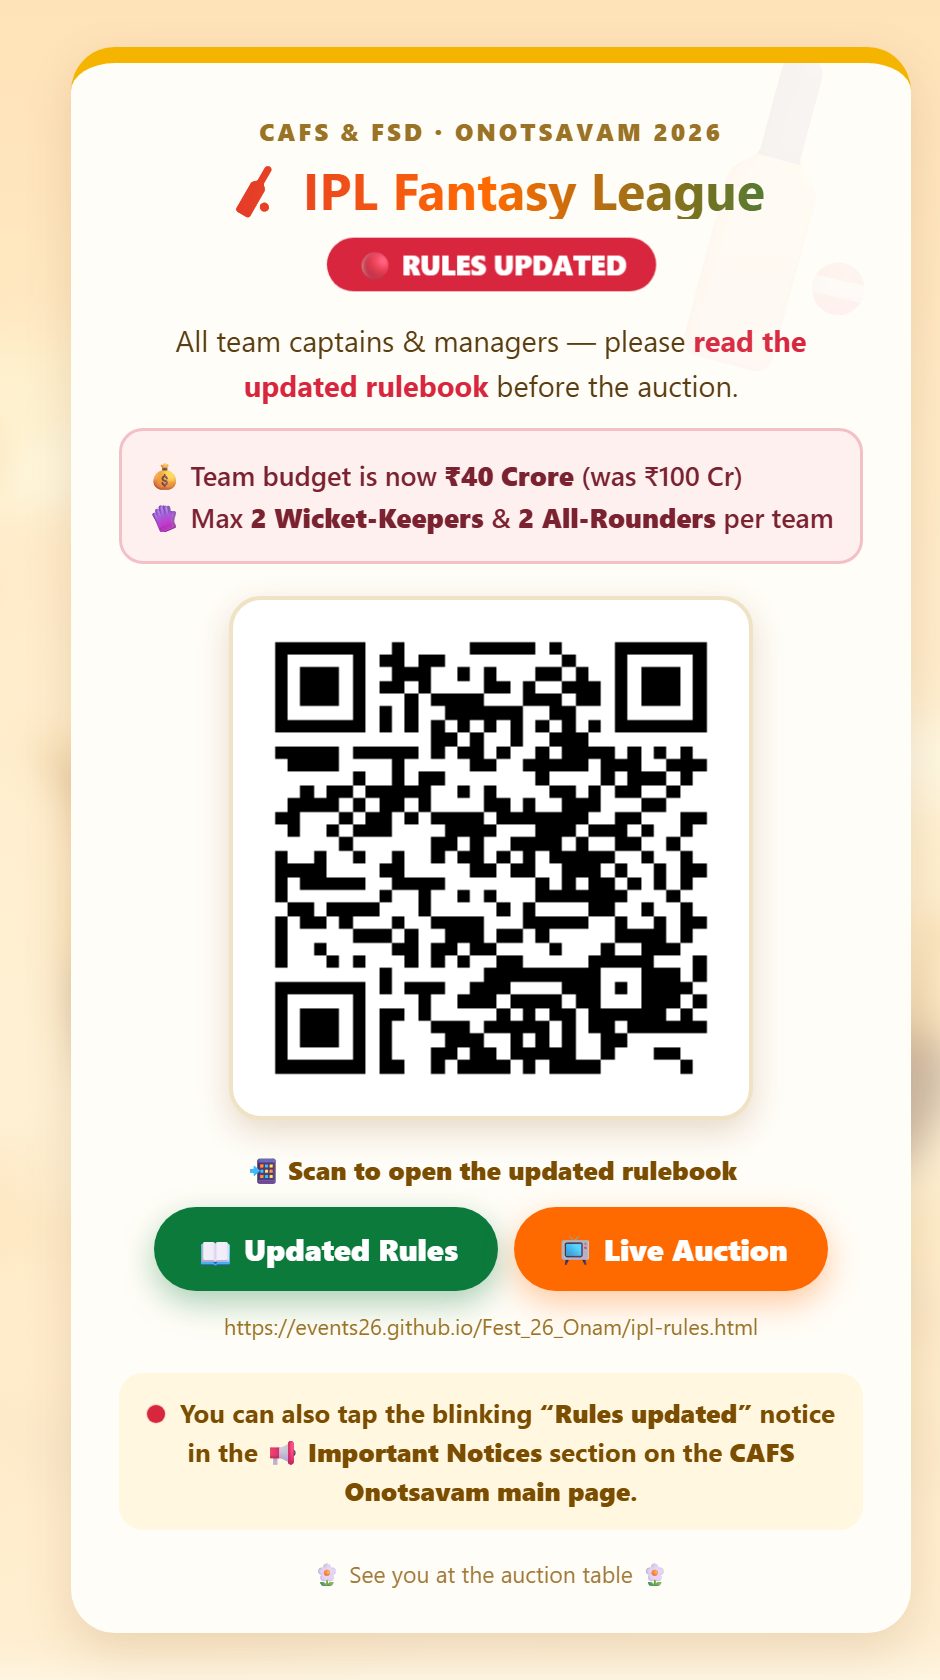
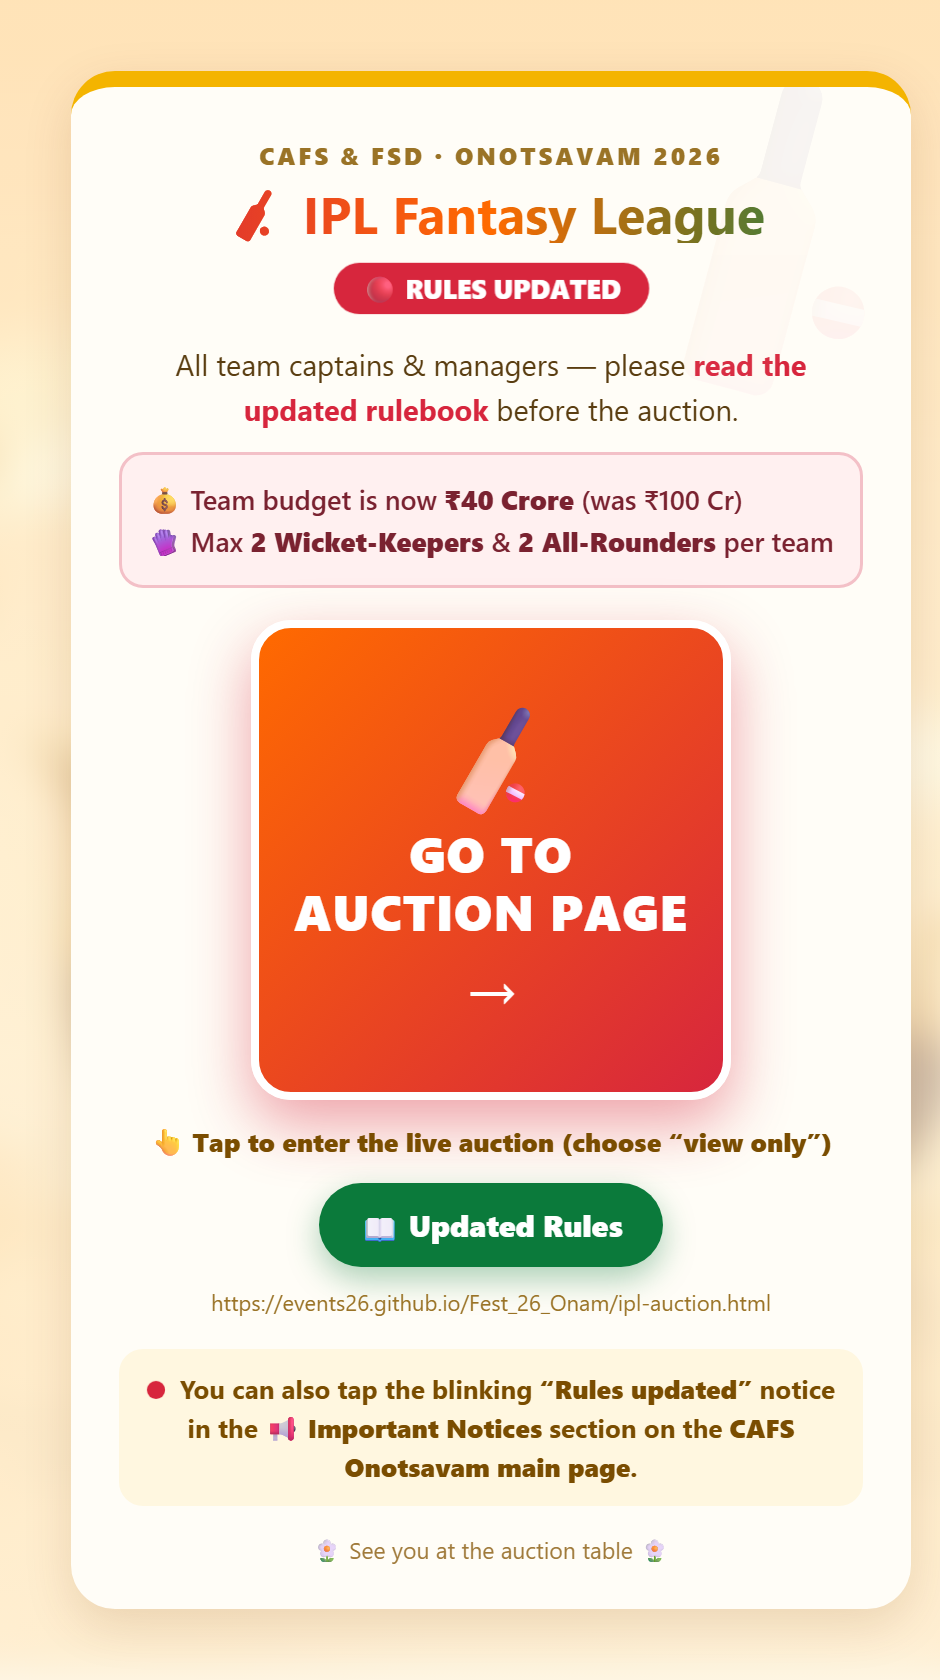
Rules card: replace QR with a big "Go to Auction Page" button
Removed the small Live Auction button and the QR code; the QR square is now
a large tappable "GO TO AUCTION PAGE" button linking to the view screen.
Auction URL printed below for the shared image. Regenerated the PNG.

diff --git a/ipl-rules-card.html b/ipl-rules-card.html
@@ -35,9 +35,15 @@
     text-align:left;margin:10px 0 16px;font-weight:600;color:#7a2230}
   .changes span{display:block;margin:3px 0}
 
-  .qrbox{background:#fff;border-radius:16px;padding:14px;display:inline-block;box-shadow:0 6px 16px rgba(120,60,0,.18);border:2px solid #f0e2c4}
-  .qrbox img{display:block;width:230px;height:230px}
   .scan{font-size:13px;font-weight:800;color:#7a4d00;margin:12px 0 4px}
+  .bigbtn{display:flex;flex-direction:column;align-items:center;justify-content:center;gap:8px;
+    width:240px;height:240px;margin:4px auto 0;border-radius:20px;text-decoration:none;
+    background:linear-gradient(135deg,var(--saffron),var(--red));color:#fff;
+    box-shadow:0 12px 30px rgba(215,38,61,.42);border:4px solid #fff}
+  .bigbtn:active{transform:scale(.98)}
+  .bb-emoji{font-size:54px;line-height:1}
+  .bb-text{font-weight:900;font-size:25px;line-height:1.15;letter-spacing:.5px;text-align:center}
+  .bb-arrow{font-size:32px;font-weight:900;line-height:1}
 
   .btn{display:inline-block;margin-top:6px;background:var(--green);color:#fff;text-decoration:none;font-weight:800;
     font-size:15px;padding:11px 20px;border-radius:26px;box-shadow:0 6px 16px rgba(11,122,59,.35)}
@@ -66,15 +72,17 @@
     <span>🧤 Max <b>2 Wicket-Keepers</b> &amp; <b>2 All-Rounders</b> per team</span>
   </div>
 
-  <div class="qrbox"><img id="qr" alt="Scan for the updated IPL Fantasy rules"></div>
-  <div class="scan">📲 Scan to open the updated rulebook</div>
+  <a class="bigbtn" id="auctionBig" href="ipl-auction.html">
+    <span class="bb-emoji">🏏</span>
+    <span class="bb-text">GO TO<br>AUCTION PAGE</span>
+    <span class="bb-arrow">→</span>
+  </a>
+  <div class="scan">👆 Tap to enter the live auction (choose “view only”)</div>
 
-  <div style="display:flex;gap:8px;justify-content:center;flex-wrap:wrap;margin-top:2px">
+  <div style="display:flex;gap:8px;justify-content:center;flex-wrap:wrap;margin-top:6px">
     <a class="btn" id="rulesLink" href="ipl-rules.html">📖 Updated Rules</a>
-    <a class="btn" id="auctionLink" href="ipl-auction.html"
-       style="background:var(--saffron);box-shadow:0 6px 16px rgba(255,106,0,.35)">📺 Live Auction</a>
   </div>
-  <span class="linktext" id="rulesLinkText"></span>
+  <span class="linktext" id="auctionLinkText"></span>
 
   <div class="notehint">
     <span class="dot"></span> You can also tap the blinking <b>“Rules updated”</b> notice in the
@@ -92,11 +100,9 @@
   const abs = f => SITE_BASE ? SITE_BASE.replace(/\/?$/,'/') + f : new URL(f, location.href).href;
   const RULES_URL = abs("ipl-rules.html");
   const AUCTION_URL = abs("ipl-auction.html");
-  document.getElementById("qr").src =
-      "https://api.qrserver.com/v1/create-qr-code/?size=260x260&margin=8&data=" + encodeURIComponent(RULES_URL);
+  document.getElementById("auctionBig").href = AUCTION_URL;
   document.getElementById("rulesLink").href = RULES_URL;
-  document.getElementById("auctionLink").href = AUCTION_URL;
-  document.getElementById("rulesLinkText").textContent = RULES_URL;
+  document.getElementById("auctionLinkText").textContent = AUCTION_URL;
   // hide the Back button when rendering a shareable image (…?png)
   if(location.search.indexOf("png") >= 0){ document.querySelector(".back").style.display = "none"; }
 </script>
